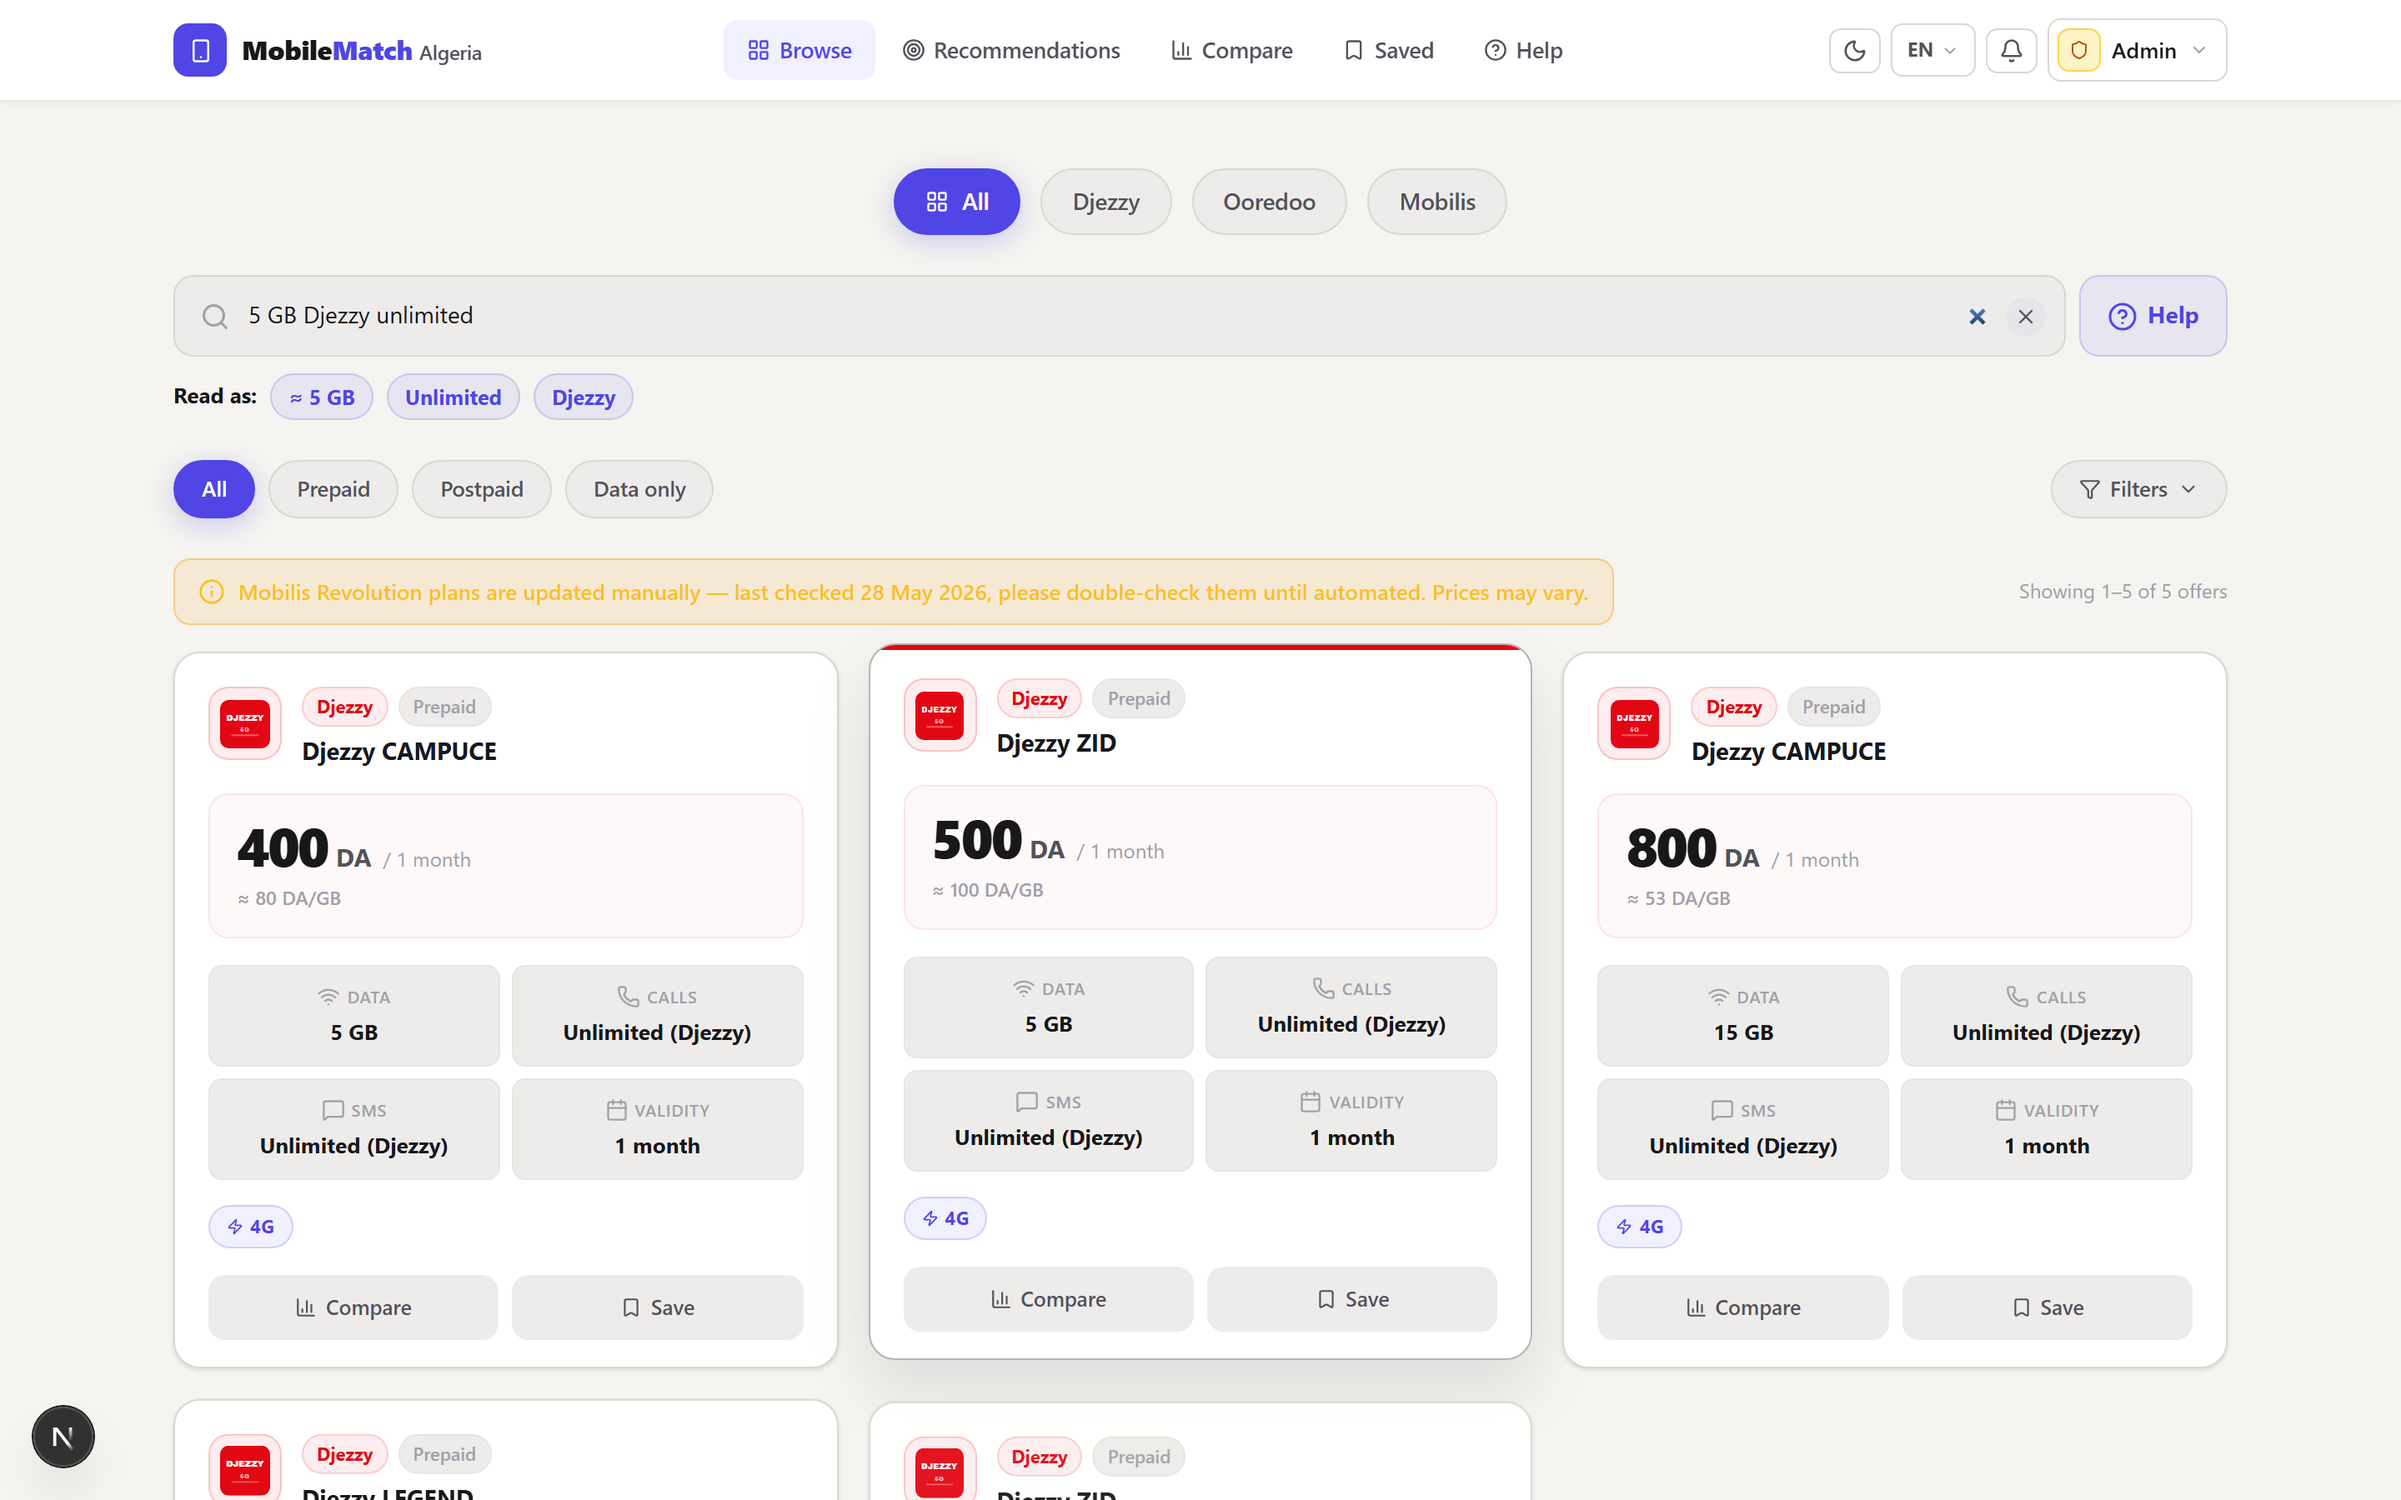
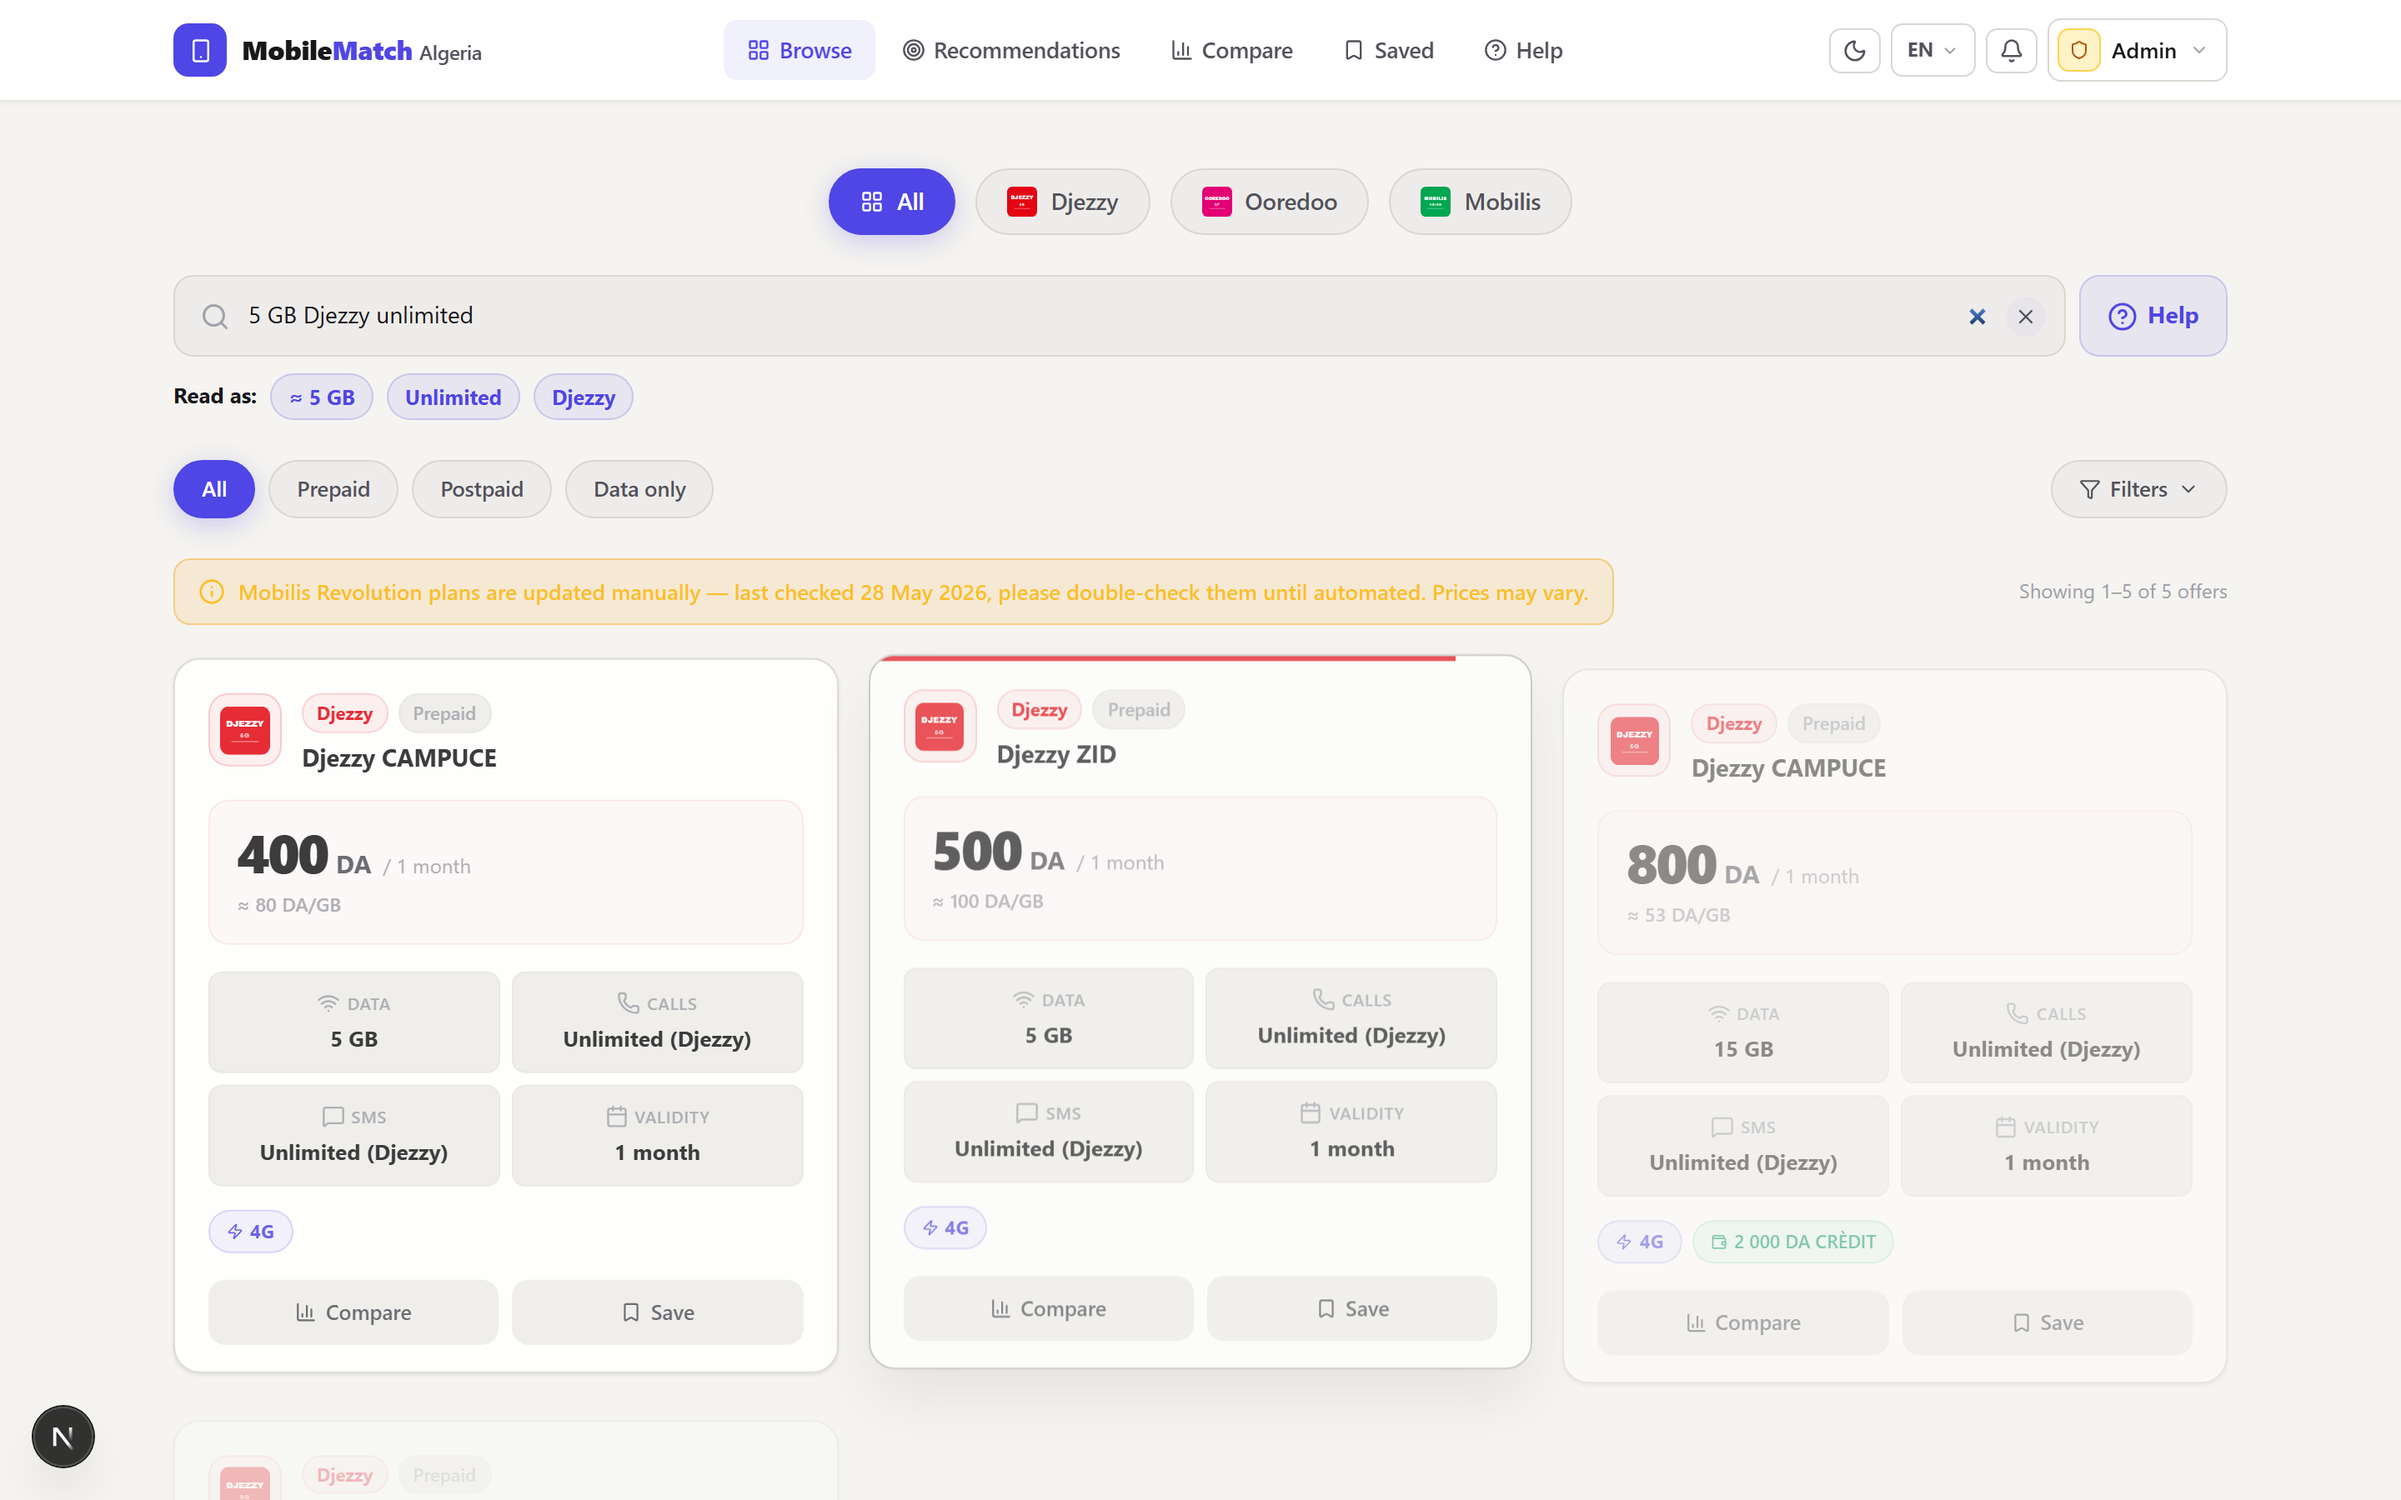
feat(offers): surface cross-network SMS allowance + fix accented credit detection (#5/#3)
Visiting the live data showed the scraper already captures both: cross-network SMS
(e.g. LEGEND 2500/3000/4000 -> '20/25/30 SMS to other networks', CAMPUCE 1600 -> '50
SMS vers autres réseaux') and credit ('300 DA credit', '3 000 DA CRÈDIT'). Two display
gaps fixed:
- offerCredit() now matches the grave-accent 'CRÈDIT' typo on Djezzy pages (was only
  é/e), so CAMPUCE-style credits show their chip.
- formatCalls/formatSmsScoped now append the bundled cross-network allowance
  (e.g. 'Unlimited (Djezzy) + 20 off-net') so the SMS-to-other-networks the supervisor
  flagged is visible on the card, not just in the detail feature list. i18n FR/EN/AR.
Also refresh the thesis/help screenshots (logos, credit chips, Hayla naming).

diff --git a/src/lib/utils.ts b/src/lib/utils.ts
@@ -75,12 +75,33 @@ function offerFeatures(o: OfferLike): string[] {
   return typeof o.features === 'string' ? parseFeatures(o.features) : []
 }
 
+/**
+ * A finite cross-network allowance bundled on top of an on-net unlimited plan,
+ * e.g. "20 SMS to other networks", "50 SMS vers autres réseaux", "100 SMS vers les
+ * autres réseaux nationaux". Returns the count (as a string) when present.
+ */
+function offNetCount(features: string[], kind: 'calls' | 'sms'): string | null {
+  const unit = kind === 'sms' ? '(?:sms|رسائل)' : '(?:min|minutes?|دقيقة)'
+  const re = new RegExp(`(\\d+)\\s*${unit}[^\\d]*(?:other|autre|أخرى)`, 'i')
+  for (const f of features) {
+    const m = f.match(re)
+    if (m) return m[1]
+  }
+  return null
+}
+
 function scopedUnlimited(features: string[], kind: 'calls' | 'sms', operatorName: string | undefined, t?: TFn): string {
   const scope = unlimitedScope(features, kind)
   if (!t) return 'Unlimited'
   if (scope === 'all') return t('offer.unlimitedAllNet')
-  if (scope === 'onnet' && operatorName) return t('offer.unlimitedOnNet').replace('{op}', operatorName)
-  return t('common.unlimited')
+  let label = scope === 'onnet' && operatorName
+    ? t('offer.unlimitedOnNet').replace('{op}', operatorName)
+    : t('common.unlimited')
+  // Append a bundled cross-network allowance (e.g. "+ 20 off-net") when the plan is
+  // unlimited on-net but also includes a finite quota to other networks.
+  const off = offNetCount(features, kind)
+  if (off) label += ' ' + t('offer.plusOffNet').replace('{n}', off)
+  return label
 }
 
 /** Calls allowance label — scope-aware when unlimited (e.g. «Unlimited (Djezzy)»). */
@@ -101,7 +122,7 @@ export function formatSmsScoped(o: OfferLike, t?: TFn): string {
  * on the offer card. Returns null when the offer grants no credit.
  */
 export function offerCredit(o: OfferLike): string | null {
-  return offerFeatures(o).find(f => /cr[ée]dit|credit/i.test(f)) ?? null
+  return offerFeatures(o).find(f => /cr[éèe]dit/i.test(f)) ?? null
 }
 
 export function formatValidity(days: number, t?: TFn): string {

diff --git a/src/lib/i18n.ts b/src/lib/i18n.ts
@@ -96,6 +96,7 @@ export const translations = {
     'offer.sms':      'SMS',
     'offer.unlimitedAllNet': 'Unlimited (all networks)',
     'offer.unlimitedOnNet':  'Unlimited ({op})',
+    'offer.plusOffNet':      '+ {n} off-net',
     'offer.validity': 'Validity',
     'offer.compare':  'Compare',
     'offer.selected': 'Selected',
@@ -466,6 +467,7 @@ export const translations = {
     'offer.sms':      'SMS',
     'offer.unlimitedAllNet': 'Illimité (tous réseaux)',
     'offer.unlimitedOnNet':  'Illimité ({op})',
+    'offer.plusOffNet':      '+ {n} hors réseau',
     'offer.validity': 'Validité',
     'offer.compare':  'Comparer',
     'offer.selected': 'Sélectionné',
@@ -836,6 +838,7 @@ export const translations = {
     'offer.sms':      'رسائل',
     'offer.unlimitedAllNet': 'غير محدود (كل الشبكات)',
     'offer.unlimitedOnNet':  'غير محدود ({op})',
+    'offer.plusOffNet':      '+ {n} خارج الشبكة',
     'offer.validity': 'الصلاحية',
     'offer.compare':  'مقارنة',
     'offer.selected': 'محدد',
